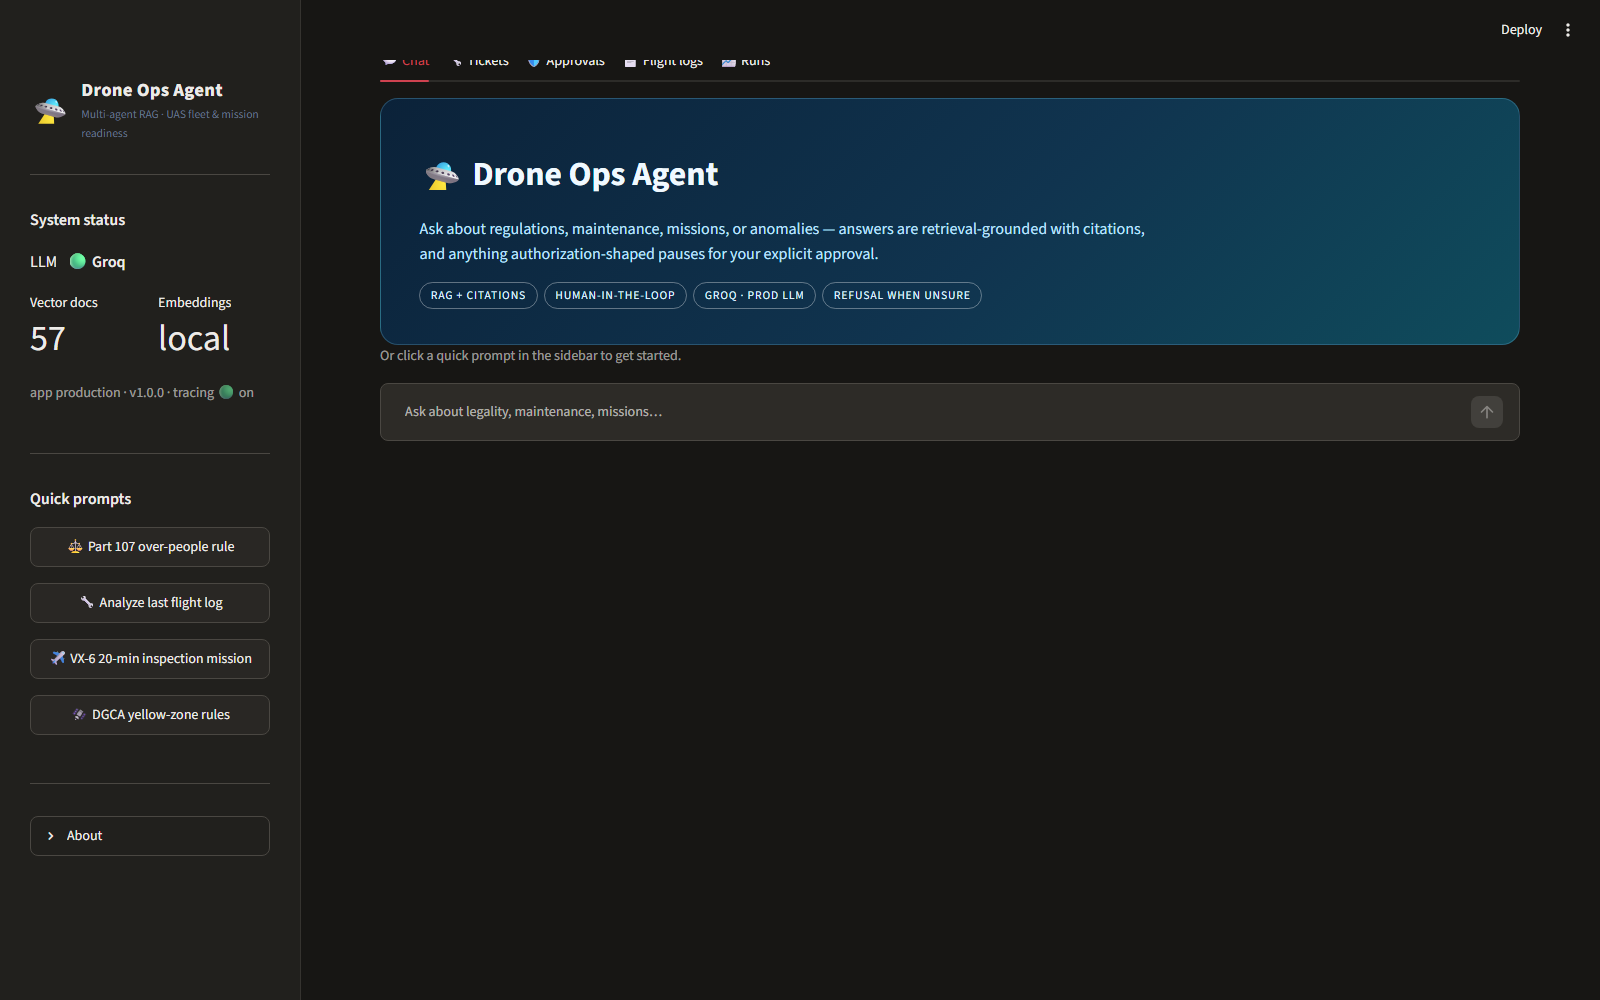
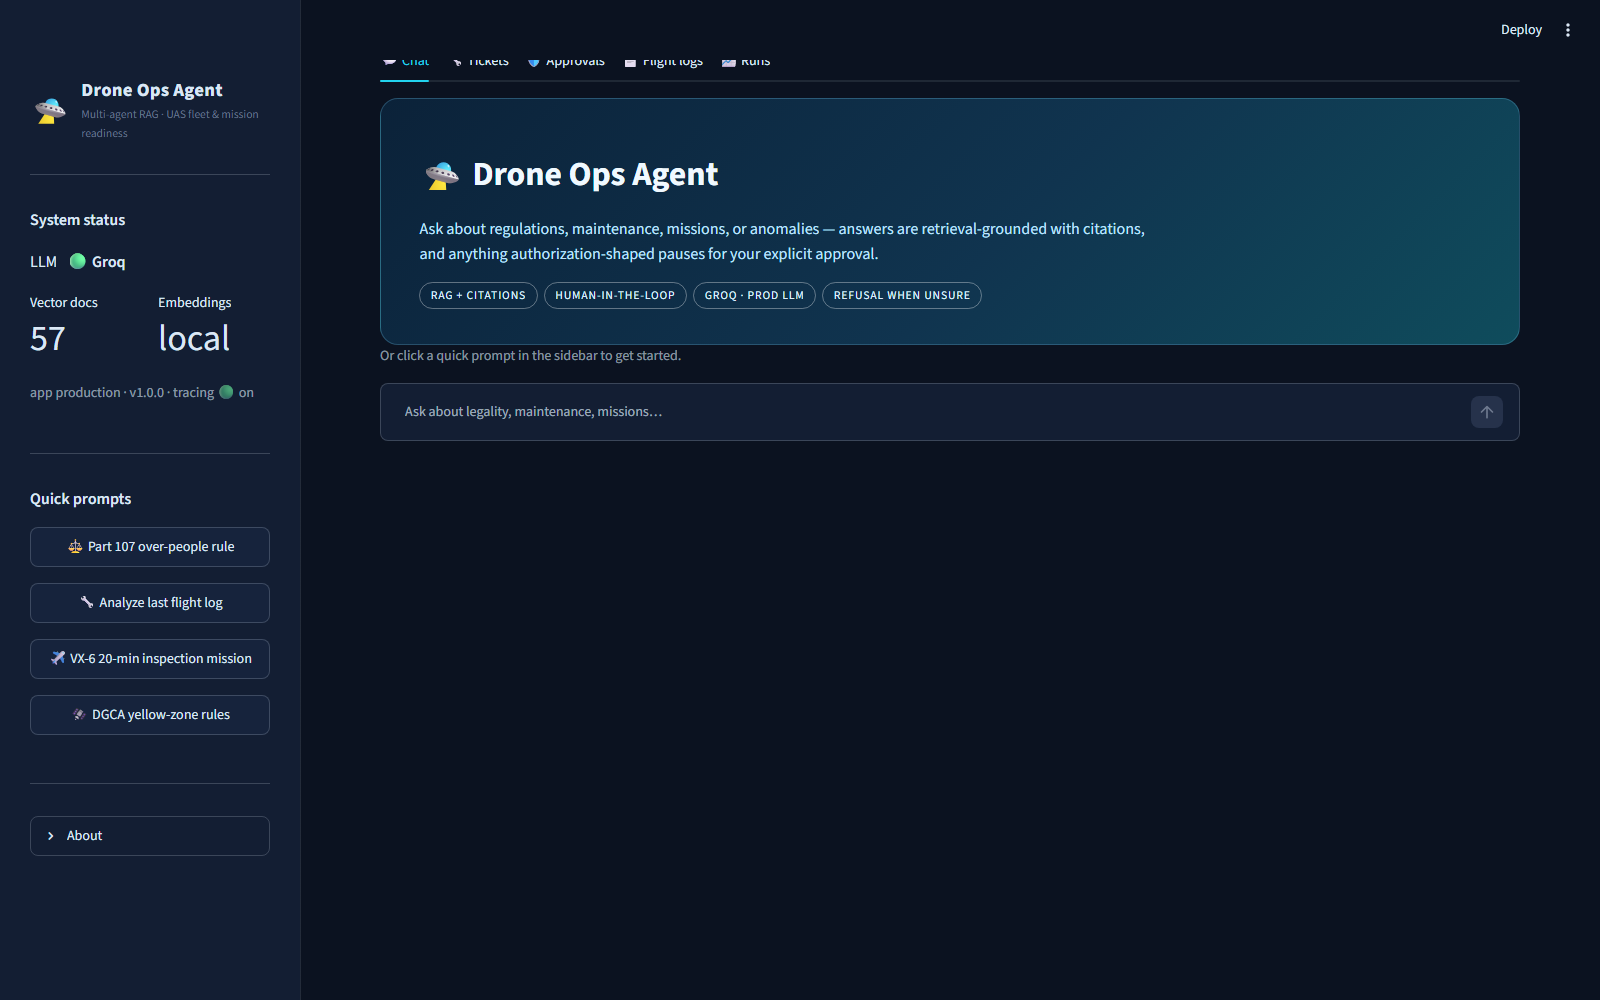
UX: redesigned maintenance verdict answers + flight-analysis panel UI, dark mission-control theme
- backend: maintenance answers now lead with verdict banner (GROUNDED/MONITOR/PASS),
  stat strip, severity-emoji findings, deterministic required-actions checklist keyed
  to actual finding types, ticket + technician sign-off line
- frontend: render_flight_panel() renders verdict banner, stat tiles, finding cards
  (severity-colored borders + evidence chips) and inline PDF export from tool_results
- .streamlit/config.toml: branded dark theme (cyan on navy); Dockerfile copies it in-image
- tickets tab: open/high-severity/total metrics
- verified live in container (verdict direct line fixed); screenshot refreshed

diff --git a/frontend/streamlit_app.py b/frontend/streamlit_app.py
@@ -64,6 +64,41 @@ st.markdown("""
   padding: .8rem 1rem; margin-bottom: .6rem;
 }
 .hitl h4 { margin: 0 0 .3rem 0; color: #b91c1c; }
+
+/* verdict banner (flight analysis) */
+.verdict { border-radius: 12px; padding: .7rem 1rem; margin: .3rem 0 .6rem 0; color:#fff; }
+.verdict h3 { margin: 0; font-size: 1.05rem; }
+.verdict small { opacity: .85; font-size: .78rem; }
+.v-ground  { background: linear-gradient(135deg,#7f1d1d,#dc2626); border:1px solid #fca5a5; }
+.v-monitor { background: linear-gradient(135deg,#78350f,#d97706); border:1px solid #fcd34d; }
+.v-pass    { background: linear-gradient(135deg,#14532d,#16a34a); border:1px solid #86efac; }
+
+/* stat tiles */
+.tiles { display:flex; gap:.5rem; flex-wrap:wrap; margin:.4rem 0 .6rem; }
+.tile { flex:1 1 120px; background:#0f1c30; border:1px solid #1e3a5f; border-radius:10px; padding:.45rem .6rem; text-align:center; }
+.tile .k { color:#7aa5d0; font-size:.65rem; text-transform:uppercase; letter-spacing:.06em; }
+.tile .v { color:#f0f7ff; font-size:1.05rem; font-weight:800; }
+
+/* finding cards */
+.finding { display:flex; gap:.6rem; align-items:flex-start; border:1px solid #1e3a5f;
+           border-left:5px solid #64748b; border-radius:10px; padding:.5rem .7rem; margin:.35rem 0;
+           background:#0f1c30; }
+.f-high { border-left-color:#ef4444; }
+.f-medium { border-left-color:#f59e0b; }
+.f-low { border-left-color:#eab308; }
+.finding .icon { font-size:1.1rem; line-height:1.2; }
+.finding .type { font-weight:700; color:#f3f8ff; font-size:.85rem; }
+.finding .desc { color:#a8c0dd; font-size:.8rem; }
+.finding .mono { font-family:ui-monospace,Consolas,monospace; color:#67e8f9; font-size:.72rem; }
+
+/* actions checklist */
+.actions { border:1px dashed #155e75; border-radius:10px; padding:.5rem .8rem; background:rgba(34,211,238,.06); margin:.4rem 0; }
+.actions b { color:#67e8f9; }
+.actions ol { margin:.2rem 0 .1rem 1.1rem; padding:0; }
+.actions li { color:#c4dcf5; font-size:.82rem; margin:.15rem 0; }
+
+/* raw answer expander */
+.rawhint { color:#64748b; font-size:.72rem; }
 </style>
 """, unsafe_allow_html=True)
 
@@ -116,6 +151,7 @@ def render_query(prompt: str):
     with st.chat_message("assistant"):
         status = st.status("Agent working…", expanded=True)
         final_answer, citations, trace = "", [], []
+        tool_results: dict = {}
         steps: list[str] = []
         for event in stream_chat(prompt):
             etype = event.get("type")
@@ -136,11 +172,18 @@ def render_query(prompt: str):
                 final_answer = event.get("answer", "")
                 citations = event.get("citations", [])
                 trace = event.get("trace", steps)
+                tool_results = event.get("tool_results") or {}
             elif etype == "error":
                 final_answer = (f"⚠ Agent error: {event.get('error')}\n\n"
                                 f"{event.get('safe_default', 'Do not launch.')}")
         status.update(label="Agent finished", state="complete")
-        st.markdown(final_answer)
+        la = tool_results.get("log_analysis") if tool_results else None
+        if la:
+            render_flight_panel(la, (tool_results or {}).get("ticket"))
+            with st.expander("📄 Raw agent answer"):
+                st.markdown(final_answer)
+        else:
+            st.markdown(final_answer)
         if citations:
             with st.expander(f"📚 Sources ({len(citations)})", expanded=False):
                 for i, c in enumerate(citations, 1):
@@ -154,6 +197,68 @@ def render_query(prompt: str):
                 st.markdown(" → ".join(f"`{s}`" for s in trace))
     st.session_state.messages.append(("assistant", final_answer))
     return final_answer
+
+
+_VERA = {
+    "GROUND": ("🚫", "GROUNDED — DO NOT FLY", "v-ground"),
+    "MONITOR": ("⚠", "MONITOR — RESTRICTED OPERATIONS", "v-monitor"),
+    "PASS": ("✅", "PASS — NO ANOMALIES", "v-pass"),
+}
+
+
+def render_flight_panel(la: dict, ticket: dict | None):
+    verdict = str(la.get("verdict", "")).upper()
+    icon, label, cls = _VERA.get(verdict, ("❓", verdict or "UNKNOWN", "v-monitor"))
+    st.markdown(
+        f'<div class="verdict {cls}"><h3>{icon} {label}</h3>'
+        f'<small>{la.get("rows", "?")} rows · {la.get("duration_s", 0):.1f}s · '
+        f'anomaly score {la.get("anomaly_score", "?")}/100</small></div>',
+        unsafe_allow_html=True)
+
+    anoms = la.get("anomalies", [])
+    hi = sum(1 for a in anoms if (a.get("severity") or "").upper() in {"HIGH", "CRITICAL"})
+    st.markdown(
+        '<div class="tiles">'
+        f'<div class="tile"><div class="k">Anomaly score</div><div class="v">{la.get("anomaly_score", "—")}/100</div></div>'
+        f'<div class="tile"><div class="k">Findings</div><div class="v">{len(anoms)} ({hi} high)</div></div>'
+        f'<div class="tile"><div class="k">Vib max</div><div class="v">{la.get("max_vibration_ms2", 0):.1f} m/s²</div></div>'
+        f'<div class="tile"><div class="k">Sag</div><div class="v">{la.get("voltage_sag_v", 0):.1f} V</div></div>'
+        f'<div class="tile"><div class="k">Temp max</div><div class="v">{la.get("motor_temp_max_c", 0):.0f} °C</div></div>'
+        "</div>",
+        unsafe_allow_html=True)
+
+    for a in anoms:
+        sev = (a.get("severity") or "").upper()
+        cls = {"HIGH": "f-high", "CRITICAL": "f-high", "MEDIUM": "f-medium", "LOW": "f-low"}.get(sev, "")
+        ico = {"HIGH": "🔴", "CRITICAL": "🔴", "MEDIUM": "🟠", "LOW": "🟡"}.get(sev, "⚪")
+        ev = a.get("evidence") or {}
+        ev_txt = " · ".join(f"{k}={v}" for k, v in list(ev.items())[:5])
+        st.markdown(
+            f'<div class="finding {cls}"><div class="icon">{ico}</div><div>'
+            f'<div class="type">[{sev}] {a.get("type", "")}</div>'
+            f'<div class="desc">{a.get("description", "")}</div>'
+            + (f'<div class="mono">{ev_txt}</div>' if ev_txt else "")
+            + "</div></div>",
+            unsafe_allow_html=True)
+
+    if ticket:
+        t_id = ticket.get("id", "?")
+        t_sev = (ticket.get("severity") or "?").upper()
+        st.markdown(
+            f'<div class="actions"><b>Ticket {t_id}</b> · severity <b>{t_sev}</b> · status {ticket.get("status")}<br/>'
+            "Aircraft is <b>grounded pending inspection</b>. Technician sign-off required before next flight.</div>",
+            unsafe_allow_html=True)
+        if st.button("📄 Export maintenance report (PDF)", key=f"panel-pdf-{t_id}"):
+            try:
+                r = httpx.post(f"{API}/report/{t_id}", timeout=30.0)
+                if r.status_code == 200:
+                    st.download_button("Download PDF", r.content,
+                                       file_name=f"{t_id}.pdf", mime="application/pdf",
+                                       key=f"panel-dl-{t_id}")
+                else:
+                    st.error(f"export failed: {r.text}")
+            except Exception as exc:
+                st.error(str(exc))
 
 
 def approval_banner(pending: dict):
@@ -277,6 +382,13 @@ with tab_tickets:
         tickets = []
     else:
         tickets = data.get("tickets", [])
+    if tickets:
+        open_n = sum(1 for t in tickets if (t.get("status") or "").upper() == "OPEN")
+        high_n = sum(1 for t in tickets if (t.get("severity") or "").upper() in {"HIGH", "CRITICAL"})
+        c1, c2, c3 = st.columns(3)
+        c1.metric("Open", open_n)
+        c2.metric("High severity", high_n)
+        c3.metric("Total", len(tickets))
     if not tickets:
         st.info("No tickets yet — analyze a flight log from the **📄 Flight logs** tab to open one.")
     for t in tickets:

diff --git a/backend/app/agents/nodes.py b/backend/app/agents/nodes.py
@@ -224,17 +224,55 @@ def _run_log_analysis(state: AgentState, log_path: str) -> AgentState:
         return _safe_tool_failure(state, "flight_log_analysis", exc)
 
     anomalies = analysis.anomalies
-    anomaly_lines = "\n".join(f"- [{a.severity}] {a.type}: {a.description}" for a in anomalies) or "- none"
+    verdict = (analysis.verdict or "").upper()
+    verdict_line = {
+        "GROUND": "🚫 **GROUNDED — do not fly**",
+        "MONITOR": "⚠ **MONITOR — restricted operations only**",
+        "PASS": "✅ **PASS — no anomalies detected**",
+    }.get(verdict, f"**{verdict}**")
+
+    def _sev_icon(sev: str) -> str:
+        return {"HIGH": "🔴", "MEDIUM": "🟠", "LOW": "🟡"}.get((sev or "").upper(), "⚪")
+
+    sev_counts = {}
+    for a in anomalies:
+        sev_counts[(a.severity or "?").upper()] = sev_counts.get((a.severity or "?").upper(), 0) + 1
+    findings_head = (
+        f"**Findings ({len(anomalies)} — {', '.join(f'{v}x {k}' for k, v in sorted(sev_counts.items()))})**"
+        if anomalies else "**Findings**\n- none"
+    )
+    anomaly_lines = "\n".join(
+        f"- {_sev_icon(a.severity)} **{a.type}** — {a.description}" for a in anomalies
+    )
+
+    # Deterministic required-actions checklist, keyed off the actual finding types.
+    _ACTIONS = {
+        "MOTOR_CURRENT_IMBALANCE": "Motor current imbalance → inspect motor bearings/ESC and propeller condition on the flagged axis; run a 10-min hover check.",
+        "VIBRATION_EXCESSIVE": "Excessive vibration → check prop balance, motor mounts and IMU dampers; verify with a short tethered hover.",
+        "BATTERY_VOLTAGE_SAG": "Voltage sag → measure battery internal resistance, check connector/wiring, downsize payload or mission time.",
+        "MOTOR_TEMP": "Motor overtemp → check cooling airflow and motor load; verify bench temps after 5-min hover.",
+        "VOLTAGE_LOW": "Low voltage → swap to a fresh/charged pack and log IR before return to service.",
+    }
+    actions = []
+    for a in anomalies:
+        for key, action in _ACTIONS.items():
+            if key in (a.type or "").upper() and action not in actions:
+                actions.append(action)
+    if not actions:
+        actions.append("Review logged anomalies against the 50-hour / 100-flight checklist before next flight.")
+    action_lines = "\n".join(f"{i + 1}. {a}" for i, a in enumerate(actions))
+
     answer = (
-        f"**Flight-log analysis — {analysis.rows} rows over {analysis.duration_s}s**\n"
-        f"- Anomaly score: **{analysis.anomaly_score}/100** → verdict **{analysis.verdict}**\n"
-        f"- Motor current imbalance (% of 6-motor mean): {analysis.motor_current_imbalance_pct}\n"
-        f"- Max vibration {analysis.max_vibration_ms2} m/s² (RMS {analysis.vibration_rms_ms2})\n"
-        f"- Voltage min {analysis.voltage_min_v} V · sag {analysis.voltage_sag_v} V\n"
-        f"- Max motor temp {analysis.motor_temp_max_c} °C\n\n"
-        f"**Findings**\n{anomaly_lines}\n\n"
-        f"**Ticket opened: {ticket['id']}** (severity {ticket['severity']}, status {ticket['status']}). "
-        f"{ticket['recommended_action']}"
+        f"{verdict_line}\n"
+        f"Flight-log analysis · **{analysis.rows} rows** over **{analysis.duration_s:.1f} s** · anomaly score **{analysis.anomaly_score}/100**\n\n"
+        f"- Motor current imbalance (% of mean): {analysis.motor_current_imbalance_pct}\n"
+        f"- Max vibration **{analysis.max_vibration_ms2} m/s²** (RMS {analysis.vibration_rms_ms2})\n"
+        f"- Voltage min **{analysis.voltage_min_v} V** · sag **{analysis.voltage_sag_v} V**\n"
+        f"- Max motor temp **{analysis.motor_temp_max_c} °C**\n\n"
+        f"{findings_head}\n{anomaly_lines or '- none'}\n\n"
+        f"**Ticket {ticket['id']}** · severity **{ticket['severity']}** · status {ticket['status']}\n\n"
+        f"**Required before next flight**\n{action_lines}\n\n"
+        f"{ticket['recommended_action']} Technician sign-off required to clear."
     )
     return {
         "answer": answer,
